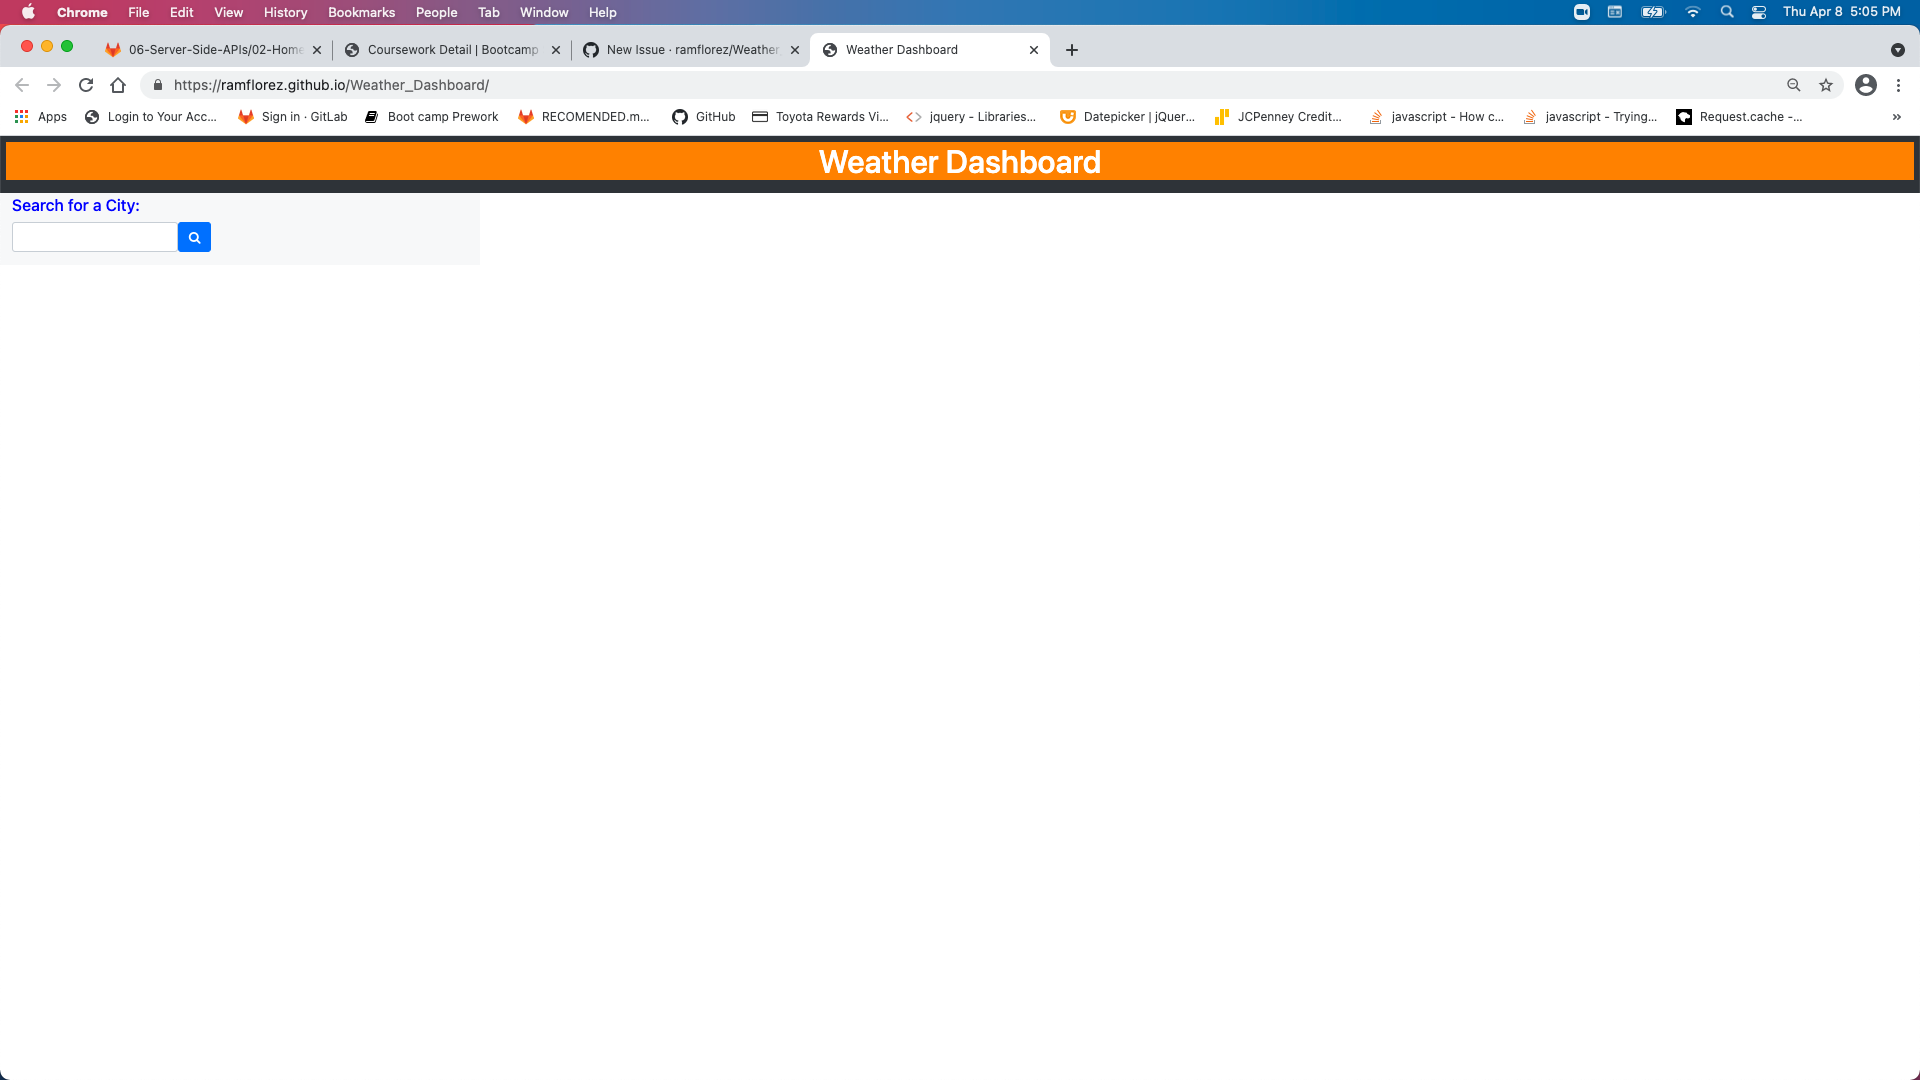
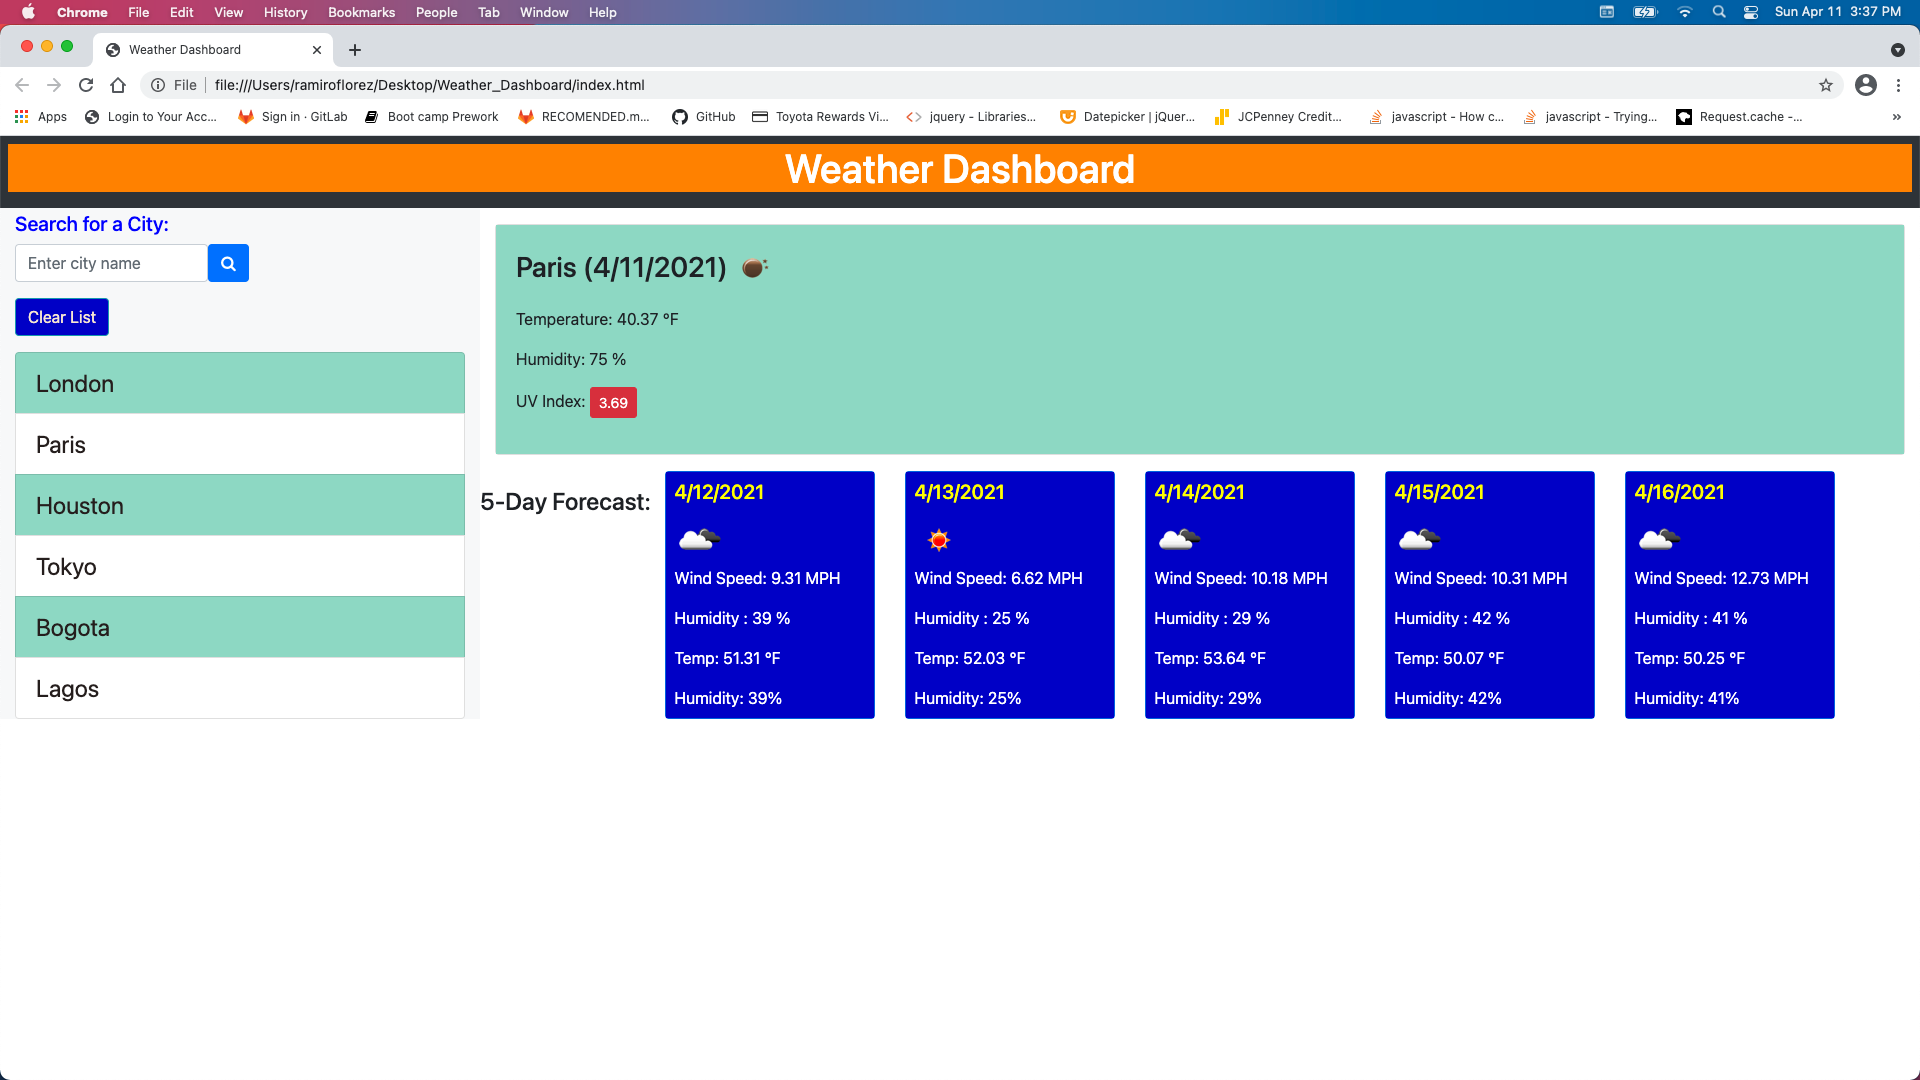
update files

diff --git a/index.html b/index.html
@@ -15,7 +15,7 @@
     <link 
     rel="stylesheet" 
     href="./Assests/style.css">
-
+    <script src="https://ajax.googleapis.com/ajax/libs/jquery/3.2.1/jquery.min.js"></script>
     <title>Weather Dashboard</title>
 
 </head>
@@ -27,7 +27,7 @@
     </header>
     <div class="container-fluid">
       <div class="row">
-        <aside class="col-lg-3 bg-light">
+        <div class="col-lg-3 bg-light">
           <h5 class="mt-1">Search for a City:</h5>
           <div class="form-inline form-group">
             <input class="form-control" type="text" id="search-value" placeholder="Enter city name"/>
@@ -35,10 +35,12 @@
               <i class="fa fa-search"></i>
             </button>
           </div>
-
-          <ul class="list-group history" id="history"></ul>
+        <div>
+        <button class="btn btn-info btn-outline-info mb-3" id="clearList">Clear List</button>
+        <ul class="list-group history" id="history"></ul>
+      </div>
+    </div>
         </aside>
-
         <div class="col-lg-9">
           <div id="today" class="mt-3"></div>
           <div id="forecast" class="row mt-3"></div>
@@ -46,8 +48,8 @@
       </div>
     </div>
 
-
     <script src="./Assests/script.js" type="text/javascript"></script>
+    <script src="https://cdnjs.cloudflare.com/ajax/libs/moment.js/2.20.1/moment.min.js"></script>
 </body>
 
 

diff --git a/Assests/script.js b/Assests/script.js
@@ -45,14 +45,9 @@ window.addEventListener('load', function () {
               bodyEl.classList.add('card-body', 'p-2');
               var titleEl = document.createElement('h5');
               titleEl.classList.add('card-title');
-              titleEl.textContent = new Date(
-                data.list[i].dt_txt
-              ).toLocaleDateString();               
+              titleEl.textContent = new Date(data.list[i].dt_txt).toLocaleDateString();               
               var imgEl = document.createElement('img');
-              imgEl.setAttribute(
-                'src',
-                `https://openweathermap.org/img/w/${data.list[i].weather[0].icon}.png`
-              );
+              imgEl.setAttribute('src',`https://openweathermap.org/img/w/${data.list[i].weather[0].icon}.png`);
               var p1El = document.createElement('p');
               p1El.classList.add('card-text');
               p1El.textContent = `Temp: ${data.list[i].main.temp_max} °F`;
@@ -210,4 +205,10 @@ window.addEventListener('load', function () {
       .querySelector('#search-button')
       .addEventListener('click', getSearchVal);
   });
-  
+
+  //Clear history button
+  $("#clearList").click(function(event) {
+    event.preventDefault();
+    $("#history").empty();
+    localStorage.clear(); 
+  }) 

diff --git a/Assests/style.css b/Assests/style.css
@@ -45,3 +45,11 @@ h5.card-title {
     background-color: darkorange;
     
 }
+#clearList {
+    color:antiquewhite;
+    background-color:#0000CD ;
+}
+#clearList:hover {
+    background-color:#dc3545;
+    
+}

diff --git a/README.md b/README.md
@@ -3,7 +3,9 @@ Initially I created the html file with all the elements required like textareas,
 I linked my file with a preexisted framework in bootstrap for design, style and even font.
 However, I override the style with a CSS file to improve accesibility.
 The data was fetched and parsed with a js file.
-the API used was openweathermap.org
+the API used was openweathermap.org.
+User enter a city, clicks the "search" button and receives the weather informaition including uv index.
+List of search is kept in local storage. It can be deleted using the "clear history" button.
 
 Here is the link for my deployed page at Github.
 https://ramflorez.github.io/Weather_Dashboard/
@@ -11,3 +13,4 @@ https://ramflorez.github.io/Weather_Dashboard/
 please see snapshots of the deployed pages below.
 <img src="./Assests/Images/After_click.png">
 <img src="./Assests/Images/Before_click.png">
+<img src="./Assests/Images/Search_List.png">
